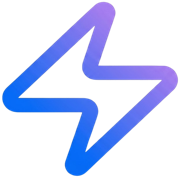
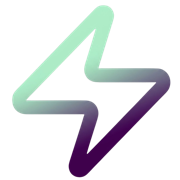
Update Layout and Styling for Legal Pages and Cookie Consent Component
- Enhanced layout and styling across legal pages (Cookies Policy, Privacy Policy, Terms and Conditions) by updating class names for better visual consistency.
- Improved favicon configuration in layout for better icon representation.
- Added new favicon files and updated existing ones for improved branding.
- Refined the Cookie Consent component's button styles and layout for better user interaction and responsiveness.

Changed region(s): [[0.0, 0.0, 1.0, 1.0]]

diff --git a/app/(legal)/terms-and-conditions/page.tsx b/app/(legal)/terms-and-conditions/page.tsx
@@ -37,67 +37,67 @@ export default function TermsAndConditions() {
               <nav className="space-y-2">
                 <Link
                   href="#terminology"
-                  className="block text-sm text-primary/80 hover:text-primary transition-colors"
+                  className="block text-sm text-accent/80 hover:text-accent transition-colors"
                 >
                   1. Терминология
                 </Link>
                 <Link
                   href="#cookies"
-                  className="block text-sm text-primary/80 hover:text-primary transition-colors"
+                  className="block text-sm text-accent/80 hover:text-accent transition-colors"
                 >
                   2. Бисквитки (Cookies)
                 </Link>
                 <Link
                   href="#license"
-                  className="block text-sm text-primary/80 hover:text-primary transition-colors"
+                  className="block text-sm text-accent/80 hover:text-accent transition-colors"
                 >
                   3. Лиценз и права върху съдържанието
                 </Link>
                 <Link
                   href="#comments"
-                  className="block text-sm text-primary/80 hover:text-primary transition-colors"
+                  className="block text-sm text-accent/80 hover:text-accent transition-colors"
                 >
                   4. Коментари и потребителско съдържание
                 </Link>
                 <Link
                   href="#links"
-                  className="block text-sm text-primary/80 hover:text-primary transition-colors"
+                  className="block text-sm text-accent/80 hover:text-accent transition-colors"
                 >
                   5. Връзки към нашето съдържание
                 </Link>
                 <Link
                   href="#content-responsibility"
-                  className="block text-sm text-primary/80 hover:text-primary transition-colors"
+                  className="block text-sm text-accent/80 hover:text-accent transition-colors"
                 >
                   6. Отговорност за съдържанието
                 </Link>
                 <Link
                   href="#privacy"
-                  className="block text-sm text-primary/80 hover:text-primary transition-colors"
+                  className="block text-sm text-accent/80 hover:text-accent transition-colors"
                 >
                   7. Поверителност
                 </Link>
                 <Link
                   href="#refund-policy"
-                  className="block text-sm text-primary/80 hover:text-primary transition-colors"
+                  className="block text-sm text-accent/80 hover:text-accent transition-colors"
                 >
                   8. Политика за връщане на суми
                 </Link>
                 <Link
                   href="#changes"
-                  className="block text-sm text-primary/80 hover:text-primary transition-colors"
+                  className="block text-sm text-accent/80 hover:text-accent transition-colors"
                 >
                   9. Промени в Общите условия
                 </Link>
                 <Link
                   href="#disclaimer"
-                  className="block text-sm text-primary/80 hover:text-primary transition-colors"
+                  className="block text-sm text-accent/80 hover:text-accent transition-colors"
                 >
                   10. Отказ от отговорност
                 </Link>
                 <Link
                   href="#jurisdiction"
-                  className="block text-sm text-primary/80 hover:text-primary transition-colors"
+                  className="block text-sm text-accent/80 hover:text-accent transition-colors"
                 >
                   11. Приложимо право и юрисдикция
                 </Link>
@@ -125,7 +125,7 @@ export default function TermsAndConditions() {
                     href="https://digistart.bg"
                     target="_blank"
                     rel="noopener noreferrer"
-                    className="text-primary hover:text-primary/80 underline transition-colors"
+                    className="text-accent hover:text-accent/80 underline transition-colors"
                   >
                     https://digistart.bg
                   </Link>
@@ -164,7 +164,7 @@ export default function TermsAndConditions() {
                     съответствие с нашата{" "}
                     <Link
                       href="/privacy-policy"
-                      className="text-primary hover:text-primary/80 underline transition-colors"
+                      className="text-accent hover:text-accent/80 underline transition-colors"
                     >
                       Политика за поверителност
                     </Link>
@@ -223,7 +223,7 @@ export default function TermsAndConditions() {
                     Други организации могат да поискат разрешение чрез имейл на:{" "}
                     <Link
                       href="mailto:[email redacted]"
-                      className="text-primary hover:text-primary/80 underline transition-colors"
+                      className="text-accent hover:text-accent/80 underline transition-colors"
                     >
                       [email redacted]
                     </Link>
@@ -251,7 +251,7 @@ export default function TermsAndConditions() {
                     Моля, запознайте се с нашата{" "}
                     <Link
                       href="/privacy-policy"
-                      className="text-primary hover:text-primary/80 underline transition-colors"
+                      className="text-accent hover:text-accent/80 underline transition-colors"
                     >
                       Политика за поверителност
                     </Link>
@@ -280,7 +280,7 @@ export default function TermsAndConditions() {
                     имейл:{" "}
                     <Link
                       href="mailto:[email redacted]"
-                      className="text-primary hover:text-primary/80 underline transition-colors"
+                      className="text-accent hover:text-accent/80 underline transition-colors"
                     >
                       [email redacted]
                     </Link>
@@ -335,7 +335,7 @@ export default function TermsAndConditions() {
                     <strong>Имейл за контакт:</strong>{" "}
                     <Link
                       href="mailto:[email redacted]"
-                      className="text-primary hover:text-primary/80 underline transition-colors"
+                      className="text-accent hover:text-accent/80 underline transition-colors"
                     >
                       [email redacted]
                     </Link>
@@ -346,7 +346,7 @@ export default function TermsAndConditions() {
                       href="https://digistart.bg"
                       target="_blank"
                       rel="noopener noreferrer"
-                      className="text-primary hover:text-primary/80 underline transition-colors"
+                      className="text-accent hover:text-accent/80 underline transition-colors"
                     >
                       https://digistart.bg
                     </Link>

diff --git a/app/(legal)/privacy-policy/page.tsx b/app/(legal)/privacy-policy/page.tsx
@@ -37,49 +37,49 @@ export default function PrivacyPolicy() {
               <nav className="space-y-2">
                 <Link
                   href="#data-types"
-                  className="block text-sm text-primary/80 hover:text-primary transition-colors"
+                  className="block text-sm text-accent/80 hover:text-accent transition-colors"
                 >
                   Видове данни, които събираме
                 </Link>
                 <Link
                   href="#processing-methods"
-                  className="block text-sm text-primary/80 hover:text-primary transition-colors"
+                  className="block text-sm text-accent/80 hover:text-accent transition-colors"
                 >
                   Начин и място на обработване на Данните
                 </Link>
                 <Link
                   href="#cookies"
-                  className="block text-sm text-primary/80 hover:text-primary transition-colors"
+                  className="block text-sm text-accent/80 hover:text-accent transition-colors"
                 >
                   Политика за бисквитки
                 </Link>
                 <Link
                   href="#eu-users"
-                  className="block text-sm text-primary/80 hover:text-primary transition-colors"
+                  className="block text-sm text-accent/80 hover:text-accent transition-colors"
                 >
                   Допълнителна информация за Потребители в ЕС
                 </Link>
                 <Link
                   href="#user-rights"
-                  className="block text-sm text-primary/80 hover:text-primary transition-colors"
+                  className="block text-sm text-accent/80 hover:text-accent transition-colors"
                 >
                   Правата на потребителите съгласно ОРЗД (GDPR)
                 </Link>
                 <Link
                   href="#additional-info"
-                  className="block text-sm text-primary/80 hover:text-primary transition-colors"
+                  className="block text-sm text-accent/80 hover:text-accent transition-colors"
                 >
                   Допълнителна информация относно събирането и обработването
                 </Link>
                 <Link
                   href="#policy-changes"
-                  className="block text-sm text-primary/80 hover:text-primary transition-colors"
+                  className="block text-sm text-accent/80 hover:text-accent transition-colors"
                 >
                   Промени в тази Политика за поверителност
                 </Link>
                 <Link
                   href="#definitions"
-                  className="block text-sm text-primary/80 hover:text-primary transition-colors"
+                  className="block text-sm text-accent/80 hover:text-accent transition-colors"
                 >
                   Определения и правни препратки
                 </Link>
@@ -103,7 +103,7 @@ export default function PrivacyPolicy() {
                     <strong>Имейл за контакт със собственика:</strong>{" "}
                     <Link
                       href="mailto:[email redacted]"
-                      className="text-primary hover:text-primary/80 underline transition-colors"
+                      className="text-accent hover:text-accent/80 underline transition-colors"
                     >
                       [email redacted]
                     </Link>
@@ -143,7 +143,7 @@ export default function PrivacyPolicy() {
                     Всяко използване на{" "}
                     <Link
                       href="#cookies"
-                      className="text-primary hover:text-primary/80 underline transition-colors"
+                      className="text-accent hover:text-accent/80 underline transition-colors"
                     >
                       Бисквитки
                     </Link>{" "}
@@ -154,7 +154,7 @@ export default function PrivacyPolicy() {
                     други цели, описани в настоящия документ и в{" "}
                     <Link
                       href="#cookies"
-                      className="text-primary hover:text-primary/80 underline transition-colors"
+                      className="text-accent hover:text-accent/80 underline transition-colors"
                     >
                       Политиката за бисквитки
                     </Link>
@@ -231,7 +231,7 @@ export default function PrivacyPolicy() {
                     запознаят с отделната{" "}
                     <Link
                       href="/cookies-policy"
-                      className="text-primary hover:text-primary/80 underline transition-colors"
+                      className="text-accent hover:text-accent/80 underline transition-colors"
                     >
                       Политика за бисквитки
                     </Link>
@@ -385,7 +385,7 @@ export default function PrivacyPolicy() {
                     до Собственика на{" "}
                     <Link
                       href="mailto:[email redacted]"
-                      className="text-primary hover:text-primary/80 underline transition-colors"
+                      className="text-accent hover:text-accent/80 underline transition-colors"
                     >
                       [email redacted]
                     </Link>

diff --git a/app/(legal)/cookies-policy/page.tsx b/app/(legal)/cookies-policy/page.tsx
@@ -37,31 +37,31 @@ export default function CookiesPolicy() {
               <nav className="space-y-2">
                 <Link
                   href="#what-are-cookies"
-                  className="block text-sm text-primary/80 hover:text-primary transition-colors"
+                  className="block text-sm text-accent/80 hover:text-accent transition-colors"
                 >
                   1. Какво представляват бисквитките?
                 </Link>
                 <Link
                   href="#types-of-cookies"
-                  className="block text-sm text-primary/80 hover:text-primary transition-colors"
+                  className="block text-sm text-accent/80 hover:text-accent transition-colors"
                 >
                   2. Какви видове бисквитки използваме?
                 </Link>
                 <Link
                   href="#how-we-use-cookies"
-                  className="block text-sm text-primary/80 hover:text-primary transition-colors"
+                  className="block text-sm text-accent/80 hover:text-accent transition-colors"
                 >
                   3. Как използваме бисквитките?
                 </Link>
                 <Link
                   href="#third-party-cookies"
-                  className="block text-sm text-primary/80 hover:text-primary transition-colors"
+                  className="block text-sm text-accent/80 hover:text-accent transition-colors"
                 >
                   4. Бисквитки на трети страни
                 </Link>
                 <Link
                   href="#control-cookies"
-                  className="block text-sm text-primary/80 hover:text-primary transition-colors"
+                  className="block text-sm text-accent/80 hover:text-accent transition-colors"
                 >
                   5. Как можете да контролирате бисквитките?
                 </Link>
@@ -85,7 +85,7 @@ export default function CookiesPolicy() {
                     <strong>Имейл за контакт:</strong>{" "}
                     <Link
                       href="mailto:[email redacted]"
-                      className="text-primary hover:text-primary/80 underline transition-colors"
+                      className="text-accent hover:text-accent/80 underline transition-colors"
                     >
                       [email redacted]
                     </Link>
@@ -118,7 +118,7 @@ export default function CookiesPolicy() {
                       href="https://digistart.bg"
                       target="_blank"
                       rel="noopener noreferrer"
-                      className="text-primary hover:text-primary/80 underline transition-colors"
+                      className="text-accent hover:text-accent/80 underline transition-colors"
                     >
                       digistart.bg
                     </Link>{" "}
@@ -187,7 +187,7 @@ export default function CookiesPolicy() {
                         href="https://policies.google.com/privacy?hl=bg"
                         target="_blank"
                         rel="noopener noreferrer"
-                        className="text-primary hover:text-primary/80 underline transition-colors"
+                        className="text-accent hover:text-accent/80 underline transition-colors"
                       >
                         Политика за поверителност на Google
                       </Link>
@@ -197,7 +197,7 @@ export default function CookiesPolicy() {
                         href="https://www.facebook.com/policy.php"
                         target="_blank"
                         rel="noopener noreferrer"
-                        className="text-primary hover:text-primary/80 underline transition-colors"
+                        className="text-accent hover:text-accent/80 underline transition-colors"
                       >
                         Политика за поверителност на Meta (Facebook)
                       </Link>

diff --git a/components/cookies/cookie-consent.tsx b/components/cookies/cookie-consent.tsx
@@ -168,24 +168,24 @@ export function CookieConsent() {
             </p>
             <Link
               href="/cookies-policy"
-              className="mt-1 inline-flex text-sm text-primary hover:text-primary/80 underline transition-colors"
+              className="mt-1 inline-flex text-sm text-accent hover:text-accent/80 underline transition-colors"
             >
               Прочетете политиката за бисквитки
             </Link>
           </div>
 
-          <div className="flex flex-col gap-2 sm:flex-row">
+          <div className="flex shrink-0 flex-col gap-2 sm:flex-row sm:flex-wrap">
             <button
               type="button"
               onClick={() => setShowPreferences(true)}
-              className="rounded-md border border-border bg-background px-4 py-2 text-sm font-medium text-foreground hover:bg-muted transition-colors"
+              className="shrink-0 whitespace-nowrap rounded-md border border-border bg-background px-4 py-2.5 text-sm font-medium text-foreground hover:bg-muted transition-colors"
             >
               Персонализирай
             </button>
             <button
               type="button"
               onClick={handleAcceptAll}
-              className="rounded-md bg-primary px-4 py-2 text-sm font-semibold text-primary-foreground hover:opacity-90 transition-opacity"
+              className="shrink-0 whitespace-nowrap rounded-md bg-primary px-4 py-2.5 text-sm font-semibold text-primary-foreground hover:opacity-90 transition-opacity"
             >
               Приеми всички
             </button>
@@ -256,25 +256,25 @@ export function CookieConsent() {
               </div>
             </div>
 
-            <div className="mt-6 flex flex-col-reverse gap-2 sm:flex-row sm:justify-end">
+            <div className="mt-6 flex shrink-0 flex-col-reverse gap-2 sm:flex-row sm:flex-wrap sm:justify-end">
               <button
                 type="button"
                 onClick={() => closePreferences()}
-                className="rounded-md border border-border bg-background px-4 py-2 text-sm font-medium text-foreground hover:bg-muted transition-colors"
+                className="shrink-0 whitespace-nowrap rounded-md border border-border bg-background px-4 py-2.5 text-sm font-medium text-foreground hover:bg-muted transition-colors"
               >
                 Назад
               </button>
               <button
                 type="button"
                 onClick={handleAcceptAll}
-                className="rounded-md bg-primary px-4 py-2 text-sm font-semibold text-primary-foreground hover:opacity-90 transition-opacity"
+                className="shrink-0 whitespace-nowrap rounded-md bg-primary px-4 py-2.5 text-sm font-semibold text-primary-foreground hover:opacity-90 transition-opacity"
               >
                 Приеми всички
               </button>
               <button
                 type="button"
                 onClick={handleConfirmSelection}
-                className="rounded-md border border-primary px-4 py-2 text-sm font-semibold text-primary hover:bg-primary/10 transition-colors"
+                className="shrink-0 whitespace-nowrap rounded-md border border-primary px-4 py-2.5 text-sm font-semibold text-primary hover:bg-primary/10 transition-colors"
               >
                 Запази избора
               </button>

diff --git a/app/layout.tsx b/app/layout.tsx
@@ -69,8 +69,11 @@ export const metadata: Metadata = {
     follow: true,
   },
   icons: {
-    icon: "/favicon-32.png",
-    shortcut: "/favicon-32.png",
+    icon: [
+      { url: "/favicon.ico", sizes: "any" },
+      { url: "/favicon-32.png", type: "image/png", sizes: "32x32" },
+    ],
+    shortcut: "/favicon.ico",
     apple: "/apple-touch-icon.png",
   },
 };